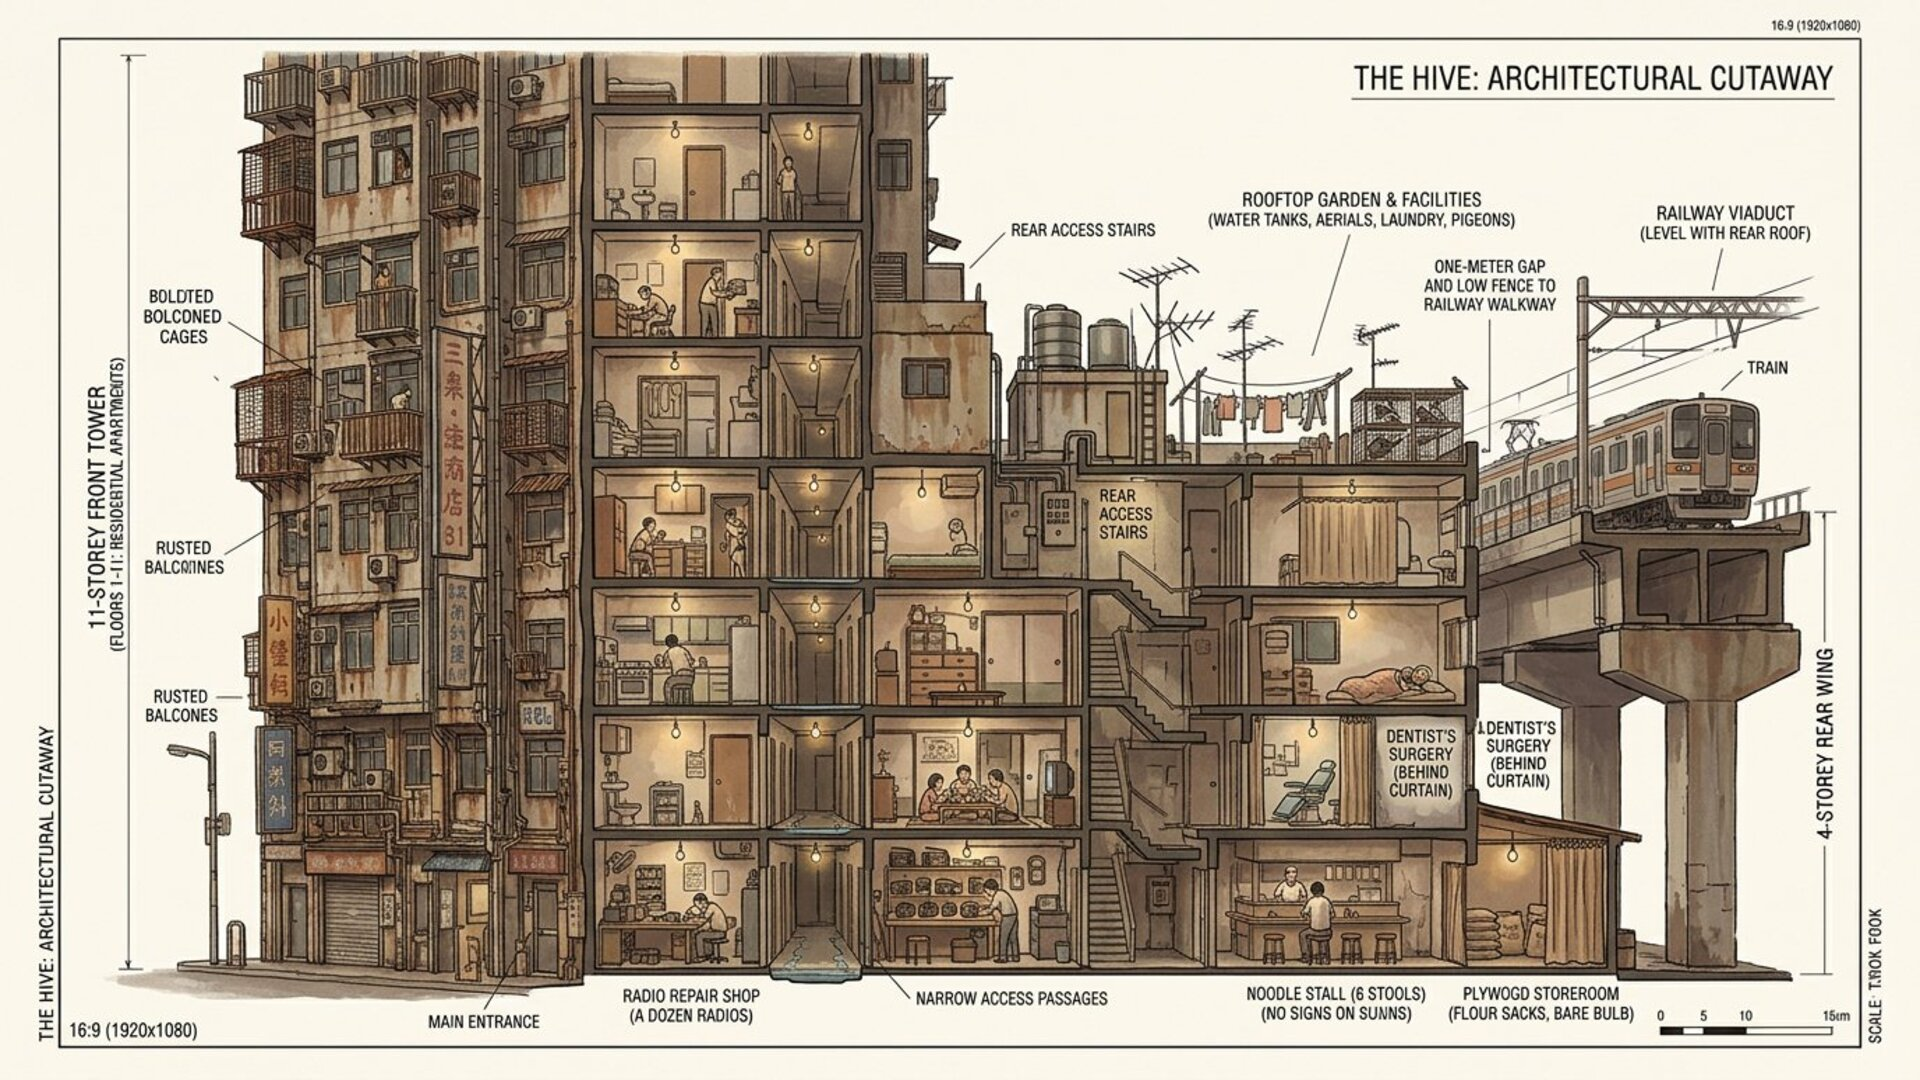
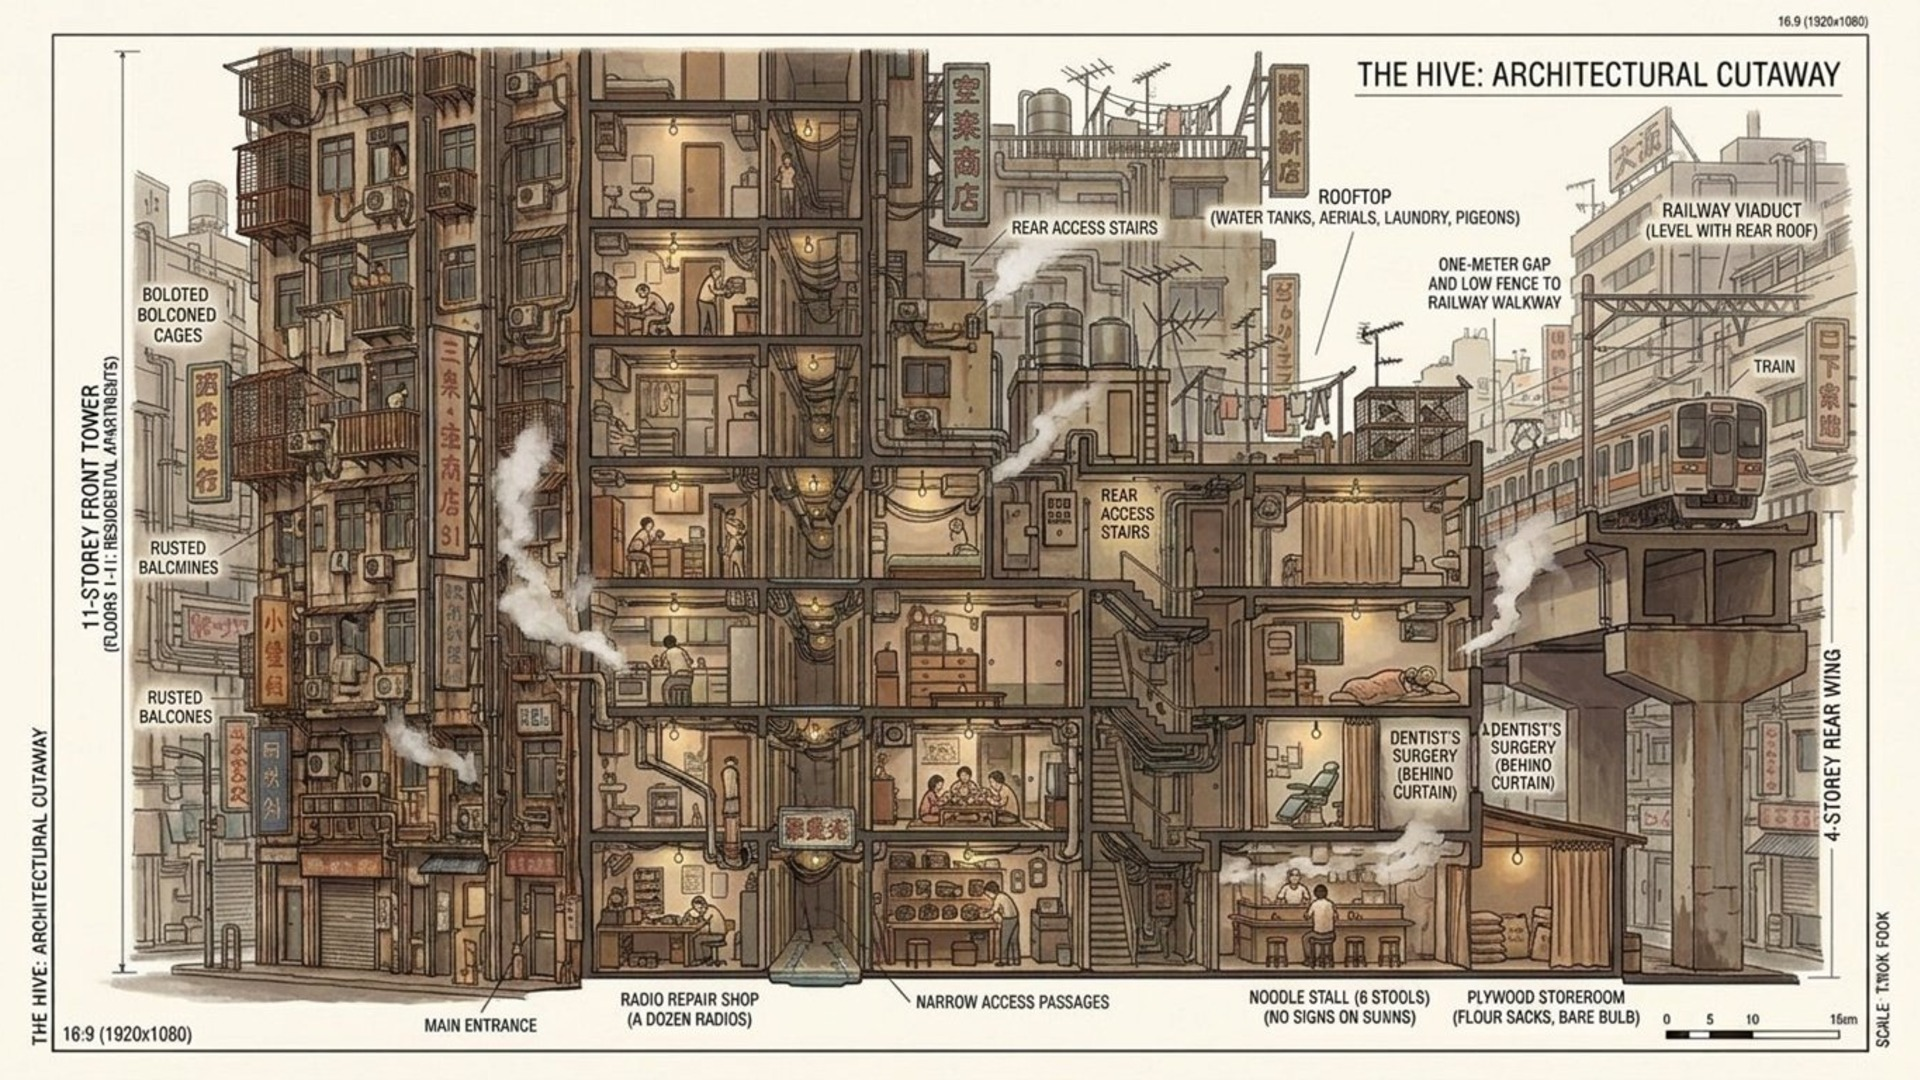
Hive canon: the NIGHT look — retrofit description, DAYTIME and NIGHT sections, negative terms, three sheets regenerated, night retake queue
- hiveCanon gains the sixty-year retrofit paragraph (objects, day and night)
- new hiveCanonDay (existing daytime look + unlit dead-tubes line; scenes 97/99 DAY,
  dead signs hang in scene 99's cut-open floors) and hiveCanonNight + hiveCanonNightRules
  (glow from within, haze and shafts; counter/storeroom stay warm tungsten; threshold;
  every light small and handmade; no film titles in prompts)
- hiveCanonNegative keeps every term and gains holograms, flying cars, video billboards,
  LED screens, futuristic technology, robots, glossy chrome, sci-fi skyline, cyberpunk
  clothing, advertising, brand logos
- regenerated only the night sheets: hive-exterior, hive-section, hive-passages-roof
  (1920x1080); counter and storeroom untouched
- hiveCanonNightRetakes: eight night frames (s75/79, s16/186, s69/236, s71/238, s85/120,
  s67/234, s70/237, s90/130) queued with the geometry pass; day shots excluded
- ledger, handoff and verify extended additively; all checks pass

diff --git a/docs/neonoire/passes/hive-canon.md b/docs/neonoire/passes/hive-canon.md
@@ -44,3 +44,68 @@ Against the sheets above, in the order the pass runs them:
 
 - `scripts/neonoire/hive-canon-look.mjs` exports `hiveCanon`, `hiveCanonNegative`, the ordered `hiveCanonSheets` (prompts, install paths, reference chains), `hiveCanonRetakes`, `hiveCanonScenes` and the `hiveCanonLook` note for the retake pass to embed.
 - `scripts/verify-neonoire.mjs` checks the five sheets are 1920×1080 and that all eight queued frames exist.
+
+## The NIGHT update — 28 September 2026 (added; the Hive only)
+
+**Scope:** the Hive and nothing else. Every other location keeps its current look and its look files were not touched. **Nothing above was replaced** — the geometry, the rooms, the existing daytime description and lighting and every existing word stand exactly as written; only the three sections below were added, all inside [`scripts/neonoire/hive-canon-look.mjs`](../../../scripts/neonoire/hive-canon-look.mjs).
+
+### 1. Physical description — appended to `hiveCanon` (applies day AND night; these are objects, not lighting)
+
+> The Hive has been retrofitted for sixty years: pipes, ducts, cables, cages, air conditioners, water tanks and extra rooms bolted over the original concrete in layers until the architecture has almost disappeared. Old handmade neon signs in vertical Japanese kanji hang all over the facade and passages, belonging to tiny businesses — a noodle counter, a dentist, a radio repair shop, a karaoke bar. Steam vents from pipes and kitchen flues.
+
+### 2. DAYTIME — `hiveCanonDay`, for day Hive shots
+
+The existing daytime look is unchanged (flat grey rainy daylight, exactly the day panels and cutaway the sheets already carry). To it:
+
+> By day the neon signs are switched off: dead glass tubes and bare wiring, no glow, no haze effect.
+
+### 3. NIGHT — `hiveCanonNight`, used ONLY for night Hive shots (interior and exterior)
+
+> At night the Hive glows from within: hundreds of small windows in warm tungsten, and the neon signs lit in red, magenta, cyan and green, some tubes flickering or half dead. Steam drifts into the rain; haze hangs in every passage; light cuts through it in visible shafts. Practical lights only, strong backlight through steam, coloured neon spill mixed with warm tungsten bulbs, deep shadows, wet reflective surfaces, 35mm anamorphic film look, fine grain.
+
+### The rules (carried by `hiveCanonDay`, `hiveCanonNightRules`, and this list)
+
+1. **Kaneko's counter and the storeroom stay mostly WARM TUNGSTEN at night — they are home.** Only faint neon spill at the edges, from the passage.
+2. **Scene 97 (the ceremony) and scene 99 (the demolition) are DAY:** use the existing daytime look plus the unlit signs. In scene 99 the dead signs still hang from the exposed, cut-open floors.
+3. **Entering the Hive at night is a threshold:** grey street light straight into haze and colour; leaving, the colour drains behind the characters.
+4. **Every light is small, handmade and belongs to someone who lives or works there.** No advertising, no brands, no screens bigger than an old CRT, nothing futuristic.
+5. **Never write "Blade Runner" or any film title in a prompt.**
+
+**Negative prompt:** `hiveCanonNegative` keeps every existing term and gains "holograms, flying cars, video billboards, LED screens, futuristic technology, robots, glossy chrome, sci-fi skyline, cyberpunk clothing, advertising, brand logos".
+
+### Sheets regenerated for the night look
+
+Only the sheets that show night (and the section, which must carry the retrofit) were regenerated; each was installed back at 1920×1080 with its layout, captions and geometry intact.
+
+| Sheet | What changed |
+| --- | --- |
+| `sheets/hive-exterior.jpg` | Night panels (1, the three-quarter street view, and 4, the rear service road) relit per the night section: glow from within, neon in red/magenta/cyan/green, steam, haze, visible shafts. Day panels (2, 3) keep their grey rainy daylight and now carry the retrofit layers with the signs dead. |
+| `sheets/hive-section.jpg` | Regenerated so the cutaway shows the retrofit — bolted-on rooms, pipes, ducts, cages, tanks over the original concrete, unlit vertical neon signs, steam vents. Rooms and geometry as canon. |
+| `sheets/hive-passages-roof.jpg` | Regenerated with the night look: haze hanging in the passages with the bulb light cutting visible shafts through it, faint coloured neon spill at the passage ends, warm tungsten bulbs; the rear roof in rain as canon. |
+| `sheets/hive-counter.jpg`, `sheets/hive-storeroom.jpg` | **Not regenerated.** They stay mostly warm tungsten at night — they are home (rule 1) — and still match the canon. |
+
+The recorded sheet prompts were extended additively: the exterior prompt now carries the NIGHT section for panels 1 and 4 and the DAYTIME section for panels 2 and 3, and the passages-and-roof prompt carries the NIGHT section for all four panels. The counter and storeroom prompts were not touched.
+
+### The night retake queue — added to the next pass (`hiveCanonNightRetakes`)
+
+Existing Hive NIGHT shots whose frames predate the night look, queued **on top of** the eight geometry retakes above for the same next generation pass. Against the regenerated sheets, in the order the pass runs them:
+
+| Frame | Problem |
+| --- | --- |
+| `s75/79-the-hive-shut.jpg` | the shut Hive at night lit only by its faint sign; the facade now glows from within through steam and haze |
+| `s16/186-everybody-sees-him.jpg` | passage with clear air; the night look hangs haze in every passage and cuts the bulbs through it in visible shafts |
+| `s69/236-vera-would-love-this.jpg` | passage at night without haze or the neon spill at the doorways |
+| `s71/238-everyones-awake.jpg` | the waking windows read as plain lit glass; the building should glow from within through haze |
+| `s85/120-the-hive-is-watching.jpg` | raid passage without the night haze and shafts |
+| `s67/234-a-different-clock.jpg` | rear service road with one lamp only; the Hive's back should glow through haze onto wet ground |
+| `s70/237-position.jpg` | rear service road without the threshold: grey street light at the edge, haze and colour toward the back door |
+| `s90/130-the-roof.jpg` | rooftop over a dark city; haze in the air and the building's warm glow and neon spill rising from below |
+
+- **Already queued above, regenerated with the night look as part of their retake:** `s85/119-single-file.jpg` (passages) and `s92/135-below-the-viaduct.jpg` (night street) — not repeated in the night queue.
+- **Day shots are not in the night queue.** `s15/184`, `s59/226`, `s97/146` and `s99/156` keep their places in the queue above and take `hiveCanonDay` — the existing daytime look plus the unlit signs — when their retake runs; in scene 99's `s99/156` the dead signs hang from the exposed, cut-open floors.
+- **Deliberately not queued:** Kaneko's counter and the storeroom (`s13`, `s17`, `s19`, `s20`, `s25`, `s57`, `s60`, `s68`, `s84`, `s86`) and the radio repair shop (`s87`) — warm tungsten practicals that still match rule 1; and scenes 88–89 (`s88/126`, `s88/127`, `s89/128`, `s89/129`) — the main switch is out and the stairwell is dark by story, so the glow must not be there.
+
+### Also in this update
+
+- `hiveCanonNightRetakes` (the eight night frames above) exported beside `hiveCanonRetakes`; the `hiveCanonLook` note now carries the day/night sections, the rules and both queues for the retake pass to embed.
+- `scripts/verify-neonoire.mjs` checks the night text, the day line, the retrofit paragraph, the negative terms, and that all eight night-retake frames exist — on top of the existing five-sheet and eight-frame checks, which stand unchanged.

diff --git a/docs/neonoire/handoff.md b/docs/neonoire/handoff.md
@@ -1,5 +1,9 @@
 # NEONOIRE — keyframe handoff
 
+## Current state — 28 September 2026 (the Hive NIGHT look)
+
+The Hive canon gained a night look; **the Hive only** — no other location's look file was touched, and nothing in the canon was replaced, only added. Three sections live in `scripts/neonoire/hive-canon-look.mjs`: the sixty-year retrofit paragraph appended to `hiveCanon` (objects, day and night — bolted-on pipes, ducts, cages, tanks and rooms, the handmade vertical neon signs, the steam vents), `hiveCanonDay` (the unchanged daytime look plus the dead glass tubes line; scenes 97 and 99 are DAY, and in 99 the dead signs hang from the cut-open floors), and `hiveCanonNight` with `hiveCanonNightRules` — the glow from within, haze and visible shafts, used **only** for night Hive shots; Kaneko's counter and the storeroom stay mostly warm tungsten (they are home — only faint neon spill at the edges), entering at night is a threshold (grey street light straight into haze and colour, leaving, the colour drains behind), every light small and handmade — no advertising, no brands, no screens bigger than an old CRT, nothing futuristic — and never a film title in a prompt. `hiveCanonNegative` gained the sci-fi/corporate terms (holograms, flying cars, video billboards, LED screens, futuristic technology, robots, glossy chrome, sci-fi skyline, cyberpunk clothing, advertising, brand logos), keeping every old term. `sheets/hive-exterior`, `sheets/hive-section` and `sheets/hive-passages-roof` were regenerated with the night look and reinstalled at 1920×1080; **`sheets/hive-counter` and `sheets/hive-storeroom` were deliberately left alone** — they still match. Eight existing night frames queue on top of the eight geometry retakes as `hiveCanonNightRetakes` (s75/79, s16/186, s69/236, s71/238, s85/120, s67/234, s70/237, s90/130; s85/119 and s92/135 pick up the night look inside their existing geometry retakes). Ledger: [hive-canon.md](passes/hive-canon.md). Verify checks both queues, all three sections and the negative terms.
+
 ## Current state — 28 September 2026 (the Hive canon)
 
 The Hive had been generated from five look files that each drew a different building, and the draft contradicts itself (eleven storeys, yet a roof level with the railway). The director's fix is now the single source of truth in **[scripts/neonoire/hive-canon-look.mjs](../../scripts/neonoire/hive-canon-look.mjs)**: the Hive is **stepped** — an eleven-storey front tower on a wide street between glass towers, and a four-storey rear wing backing onto the elevated viaduct, its roof level with the tracks; the counter and storeroom at ground level under the viaduct, which is why trains shake them. Five canon sheets were generated in order (each a reference for the next) and installed in `sheets/`: **hive-exterior** (four-panel master with the KUROSE hoarding and the stepped side elevation), **hive-section** (the 1990s-book cutaway — the key geometry reference), **hive-counter** (six stools, 金子 on the wall above the counter, never on it), **hive-storeroom** (plywood box, noren the only door, no shelving, no teal doors) and **hive-passages-roof** (shoulder-wide single file, and the rear roof with the one-metre gap onto the walkway). Ledger: [hive-canon.md](passes/hive-canon.md). Eight pre-canon frames queue as the next generation pass, one retake each, listed in `hiveCanonRetakes`: s15/184, s59/226, s92/135, s97/146, s99/156, s55/221, s68/235, s85/119. Verify checks the five sheets' dimensions and the queue's existence. Every Hive shot generated from now on attaches the canon sheets, and its notes should embed `hiveCanonLook`.
